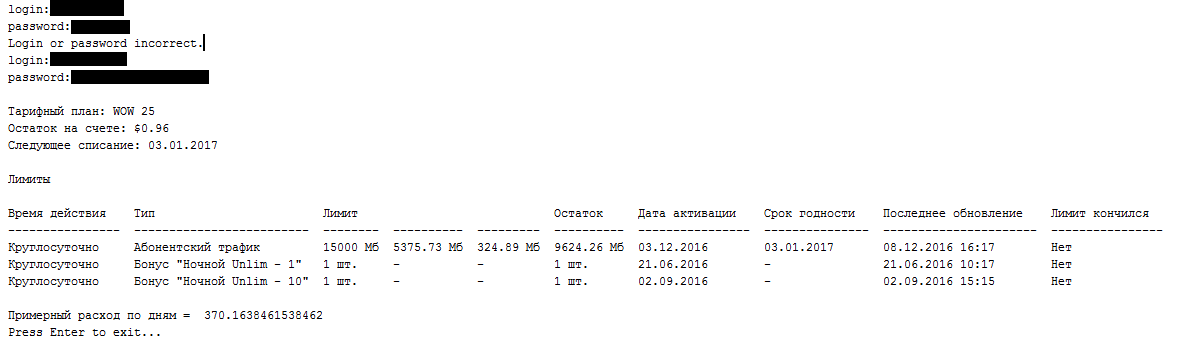
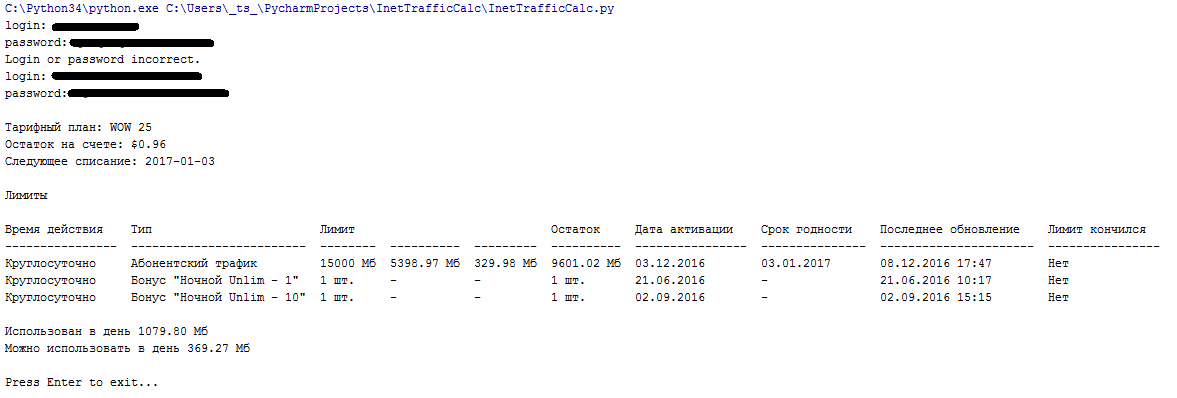
Changed code to be more object oriented for future provider adding

diff --git a/InetTrafficCalc.py b/InetTrafficCalc.py
@@ -13,74 +13,140 @@ from robobrowser import RoboBrowser
 from tabulate import tabulate
 
 
-def calc(last_date, rest_traffic):
+class Provider:
     """
-    Calculates approx. traffic per day use
-    :param last_date: Last date of this month
-    :param rest_traffic: Rest traffic of this month
-
-    :returns Approx. traffic ped day use
+    Base class of internet providers
     """
-    now = date.today()
+    def __init__(self):
+        self._budget = 0
+        self._tariff_plan = None
+        self._payment_date = None
+        self._next_payment_date = None
+        self._rest_traffic = 0
+        self._all_traffic = 0
+        self._future_use_traffic = 0
+        self._past_used_traffic = 0
+        self._dashboard_table_rows = None
 
-    print('Примерный расход по дням = ', rest_traffic / (last_date - now).days)
+        session = requests.Session()
+        session.verify = False
+        self.browser = RoboBrowser(session=session, history=True, parser="html.parser")
 
-    return rest_traffic / (last_date - now).days
+    def calc_future_use_traffic(self):
+        """
+        Calculates approx. traffic per day use
+
+        :returns Approx. traffic ped day use
+        """
+        now = date.today()
+
+        self._future_use_traffic = self._rest_traffic / (self._next_payment_date - now).days
+
+    def calc_past_used_traffic(self):
+        """
+        Calculates approx. traffic per day used
+
+        :returns Approx. traffic ped day used
+        """
+        now = date.today()
+
+        self._past_used_traffic = (self._all_traffic - self._rest_traffic) / (now - self._payment_date).days
+
+
+class Sarkor(Provider):
+    """
+    Sarkor Telecome internet provider class
+    """
+    def login(self, login, password):
+        """
+        Logins to user's private cabinet
+
+        :param login: user provide login
+        :param password: user provide password
+        :return: true if login successfully passed
+        """
+        login_url = 'https://billing2.sarkor.uz/apex/f?p=PK:LOGIN:3375616741350930'
+        self.browser.open(login_url)
+        _ = self.browser.get_form(id='wwvFlowForm')
+        _['p_t01'].value = login
+        _['p_t02'].value = password
+        self.browser.submit_form(_)
+
+        # check whether login successfull or not
+        return len(self.browser.select('#clientLogin')) > 0
+
+    def set_values(self):
+        """
+        Setting all necessary values to this object
+
+        :return: None
+        """
+        # getting right top values
+        values = self.browser.select('.innerRight > .cVal')
+
+        if len(values) == 0:
+            raise ValueError("Couldn't find top left div with exp '.innerRight > .cVal'")
+
+        self._budget = float(values[1].text)
+        self._tariff_plan = values[0].text
+        self._next_payment_date = datetime.strptime(values[2].text, "%d.%m.%Y").date()
+
+        self._dashboard_table_rows = self.browser.select('#contractRightColumn > #cLimitsTable > table > tr')
+
+        if len(self._dashboard_table_rows) == 0:
+            raise ValueError(
+                "Couldn't find Limits table rows with exp ''#contractRightColumn > #cLimitsTable > table > tr'")
+
+        _ = self._dashboard_table_rows[1].select('td')
+        self._rest_traffic = float(_[5].text[:-3])
+        self._all_traffic = float(_[2].text[:-3])
+        self._payment_date = datetime.strptime(_[6].text, "%d.%m.%Y").date()
+
+        if self._rest_traffic == 0:
+            _ = self._dashboard_table_rows[2].select('td')
+            self._rest_traffic = float(_[5].text[:-3])
+            self._all_traffic = float(_[2].text[:-3])
+            self._payment_date = datetime.strptime(_[6].text, "%d.%m.%Y").date()
+
+        self.calc_future_use_traffic()
+        self.calc_past_used_traffic()
+
+    def print(self):
+        """
+        Prints current object
+        """
+        print("\nТарифный план: {0}\nОстаток на счетe: ${1}\nСледующее списание: {2}".format(self._tariff_plan,
+                                                                                             self._budget,
+                                                                                             self._next_payment_date))
+        # getting limits
+        print("\nЛимиты\n")
+
+        print(tabulate([[v.text.replace("–", "-") for v in r.select('td')] for r in self._dashboard_table_rows[1:]],
+                       headers=[r.text.replace("–", "-") for r in self._dashboard_table_rows[0].select('th')]))
+
+        print("Использован в день {0:.2f} Мб".format(self._past_used_traffic))
+        print("Можно использовать в день {0:.2f} Мб\n".format(self._future_use_traffic))
 
 
 def main():
     """
-    Getting approx. traffic ped day use from Sarkor's billing web application
-    Reqires login and password for enter user's cabinet
-
-    :return: Approx. traffic ped day use from Sarkor's billing web application
+    main function
     """
 
-    session = requests.Session()
-    session.verify = False
+    requests.packages.urllib3.disable_warnings(
+        InsecureRequestWarning)  # Silent InsecureRequestWarning (Switch off ssl warning)
 
-    browser = RoboBrowser(session=session, history=True, parser="html.parser")
-
+    provider = Sarkor()
     # login
-    login_url = 'https://billing2.sarkor.uz/apex/f?p=PK:LOGIN:3375616741350930'
-    browser.open(login_url)
-    form = browser.get_form(id='wwvFlowForm')
-    form['p_t01'].value = input("login:")
-    form['p_t02'].value = input("password:")
-    browser.submit_form(form)
-
-    # getting right top values
-    values = browser.select('.innerRight .cVal')
-
-    if len(values) == 0:
+    while not provider.login(input("login: "), input("password: ")):
         print("Login or password incorrect.")
-        main()
-        return
 
-    print("\nТарифный план: {0}\nОстаток на счетe: ${1}\nСледующее списание: {2}".format(values[0].text
-                                                                                         , values[1].text
-                                                                                         , values[2].text))
+    provider.get_values()
 
-    dt = datetime.strptime(values[2].text, "%d.%m.%Y").date()
-
-    # getting limits
-    print("\nЛимиты\n")
-    rows = browser.select('#contractRightColumn > #cLimitsTable > table > tr')
-
-    print(tabulate([[v.text.replace("–", "-") for v in r.select('td')] for r in rows[1:]],
-                   headers=[r.text.replace("–", "-") for r in rows[0].select('th')]))
-
-    rest = float(rows[1].select('td')[5].text[:-3])
-
-    if rest == 0:
-        rest = float(rows[2].select('td')[5].text[:-3])
-
-    return calc(dt, rest)
+    provider.print()
 
 
 if __name__ == "__main__":
-    requests.packages.urllib3.disable_warnings(
-        InsecureRequestWarning)  # Silent InsecureRequestWarning (Switch off ssl warning)
 
     main()
 
